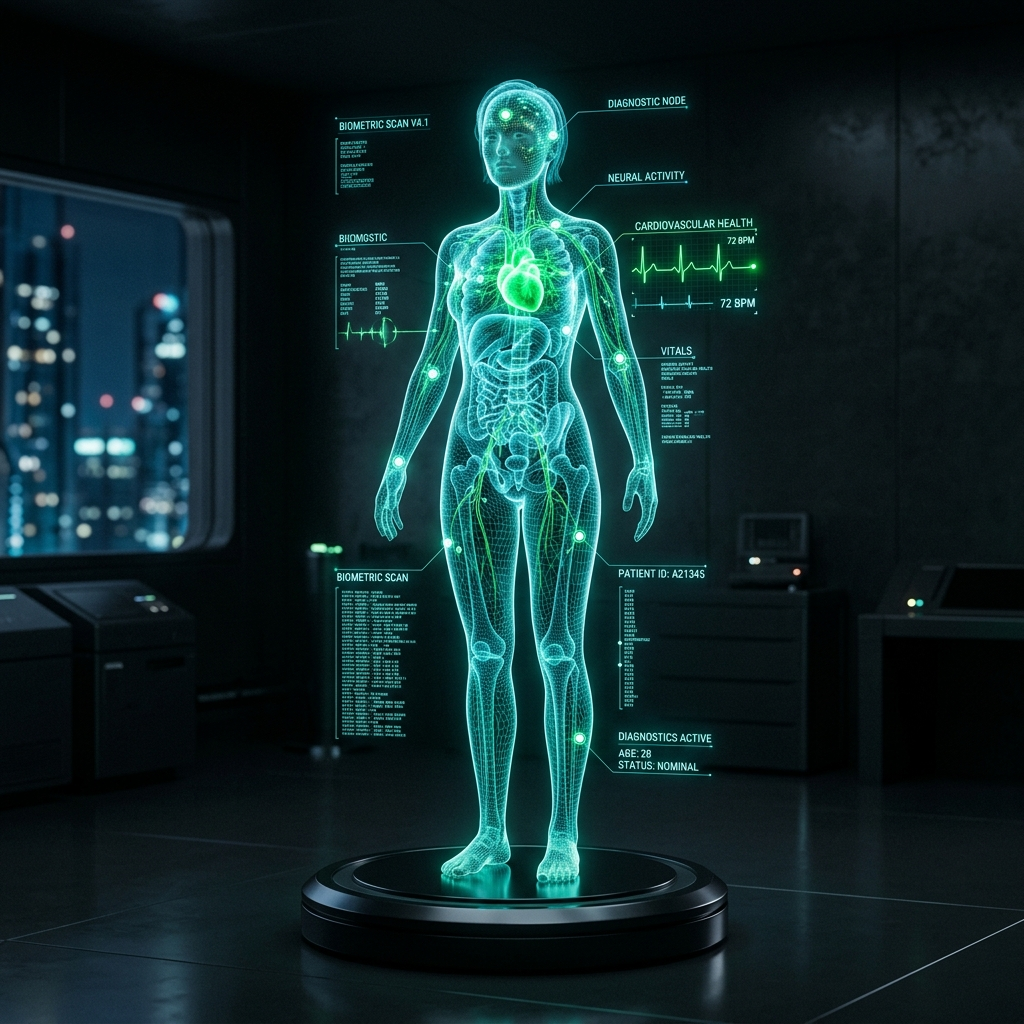
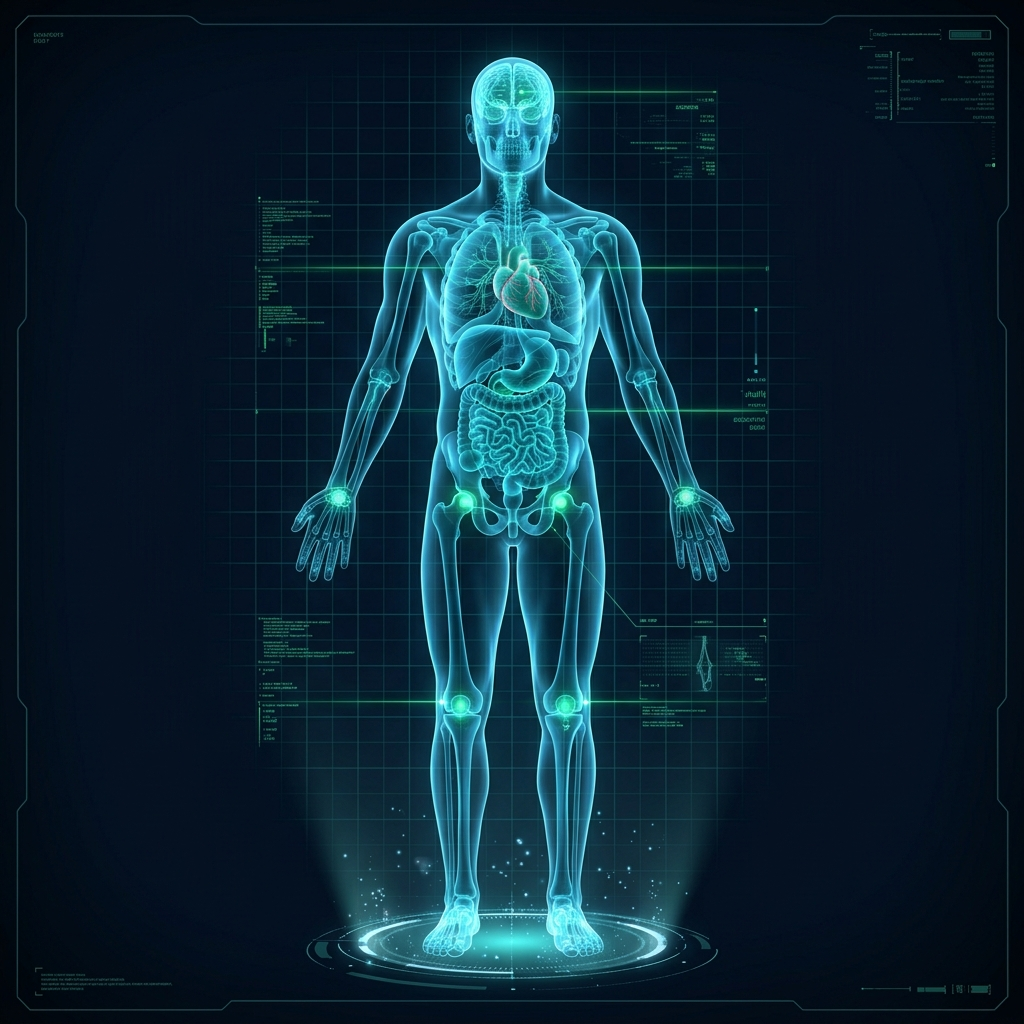
feat: upgrade clinical scanner to full-body male anatomy with pixel-perfect locked coordinates

diff --git a/index.html b/index.html
@@ -506,21 +506,34 @@
       display: flex;
       align-items: center;
       justify-content: center;
-      min-height: 480px;
+      padding: 10px;
       user-select: none;
+    }
+
+    /* 1:1 Locked Anatomical Canvas */
+    .scanner-canvas {
+      position: relative;
+      width: 100%;
+      max-width: 480px;
+      aspect-ratio: 1 / 1;
+      margin: 0 auto;
+      display: flex;
+      align-items: center;
+      justify-content: center;
     }
 
     .hero-scanner-img {
       width: 100%;
-      height: 480px;
-      object-fit: contain;
+      height: 100%;
+      object-fit: cover;
       display: block;
+      border-radius: 16px;
       transition: transform 0.6s cubic-bezier(0.16, 1, 0.3, 1), filter 0.6s ease;
       filter: drop-shadow(0 0 25px rgba(31, 230, 168, 0.25));
     }
 
-    .hero-scanner-stage:hover .hero-scanner-img {
-      transform: scale(1.025);
+    .scanner-canvas:hover .hero-scanner-img {
+      transform: scale(1.02);
     }
 
     /* Ambient Hologram Grid Background */
@@ -822,22 +835,23 @@
 
     @media (max-width: 768px) {
       .hero-scanner-stage {
-        min-height: 360px;
+        padding: 4px;
       }
-      .hero-scanner-img {
-        height: 360px;
+      .scanner-canvas {
+        max-width: 350px;
       }
       .scanner-bottom-hud {
-        font-size: 10.5px;
+        font-size: 10px;
         padding: 6px 10px;
       }
       .scanner-float-badge {
-        padding: 6px 10px;
-        font-size: 11px;
+        padding: 5px 10px;
+        font-size: 10.5px;
       }
       .hotspot-tooltip {
-        min-width: 160px;
-        font-size: 11px;
+        min-width: 150px;
+        font-size: 10.5px;
+        padding: 8px 10px;
       }
     }
 
@@ -1410,91 +1424,142 @@
           <!-- Laser Scan Line -->
           <div class="laser-scanner"></div>
 
-          <!-- Full Body Scan Image Asset -->
-          <img src="full-body-ai-scan.jpg" alt="تحليل سريري كامل لجسم المريض بالذكاء الاصطناعي" class="hero-scanner-img" id="scannerBodyImg">
+          <!-- 1:1 Locked Anatomical Canvas for Male Body -->
+          <div class="scanner-canvas">
+            <!-- Full Body Male Scan Image Asset -->
+            <img src="full-body-ai-scan.jpg" alt="مسح سريري كامل لجسم المريض بالذكاء الاصطناعي" class="hero-scanner-img" id="scannerBodyImg">
 
-          <!-- Interactive Anatomical Hotspots -->
-          <!-- 1. Brain / Head Hotspot -->
-          <button class="scan-hotspot" style="top: 13.5%; left: 50%;" onclick="quickSelectSymptom('صداع مزمن وإجهاد عصبي مع زغللة بالعينين')" title="المخ والجهاز العصبي">
-            <div class="hotspot-beacon">
-              <div class="hotspot-center"><i class="ti ti-brain"></i></div>
-              <div class="hotspot-ring-inner"></div>
-              <div class="hotspot-ring-outer"></div>
-            </div>
-            <div class="hotspot-tooltip">
-              <div class="tooltip-tag"><i class="ti ti-activity"></i> فحص الجهاز العصبي</div>
-              <div class="tooltip-title">🧠 الدماغ والمخ والأعصاب</div>
-              <div class="tooltip-metric">نشاط النواقل: متوازن • فحص الصداع والإجهاد</div>
-              <div class="tooltip-action">انقر لبدء التحليل الفوري ←</div>
-            </div>
-          </button>
+            <!-- Interactive Anatomical Hotspots Positioned Exactly on Male Anatomy -->
 
-          <!-- 2. Heart / Chest Hotspot -->
-          <button class="scan-hotspot" style="top: 26.5%; left: 51.5%;" onclick="quickSelectSymptom('خفقان سريع في نبضات القلب مع ضيق تنفس خفيف')" title="القلب والأوعية الدموية">
-            <div class="hotspot-beacon">
-              <div class="hotspot-center"><i class="ti ti-heart"></i></div>
-              <div class="hotspot-ring-inner"></div>
-              <div class="hotspot-ring-outer"></div>
-            </div>
-            <div class="hotspot-tooltip">
-              <div class="tooltip-tag"><i class="ti ti-heart-rate-monitor"></i> فحص الدورة الدموية</div>
-              <div class="tooltip-title">🫀 القلب والشرايين</div>
-              <div class="tooltip-metric">النبض: 72 bpm • ضغط الدم: 120/80</div>
-              <div class="tooltip-action">انقر لفحص النبض وخفقان القلب ←</div>
-            </div>
-          </button>
+            <!-- 1. Brain / Head Hotspot (10.6%, 50.0%) -->
+            <button class="scan-hotspot" style="top: 10.6%; left: 50.0%;" onclick="quickSelectSymptom('صداع مزمن وإجهاد عصبي مع زغللة بالعينين')" title="المخ والجهاز العصبي">
+              <div class="hotspot-beacon">
+                <div class="hotspot-center"><i class="ti ti-brain"></i></div>
+                <div class="hotspot-ring-inner"></div>
+                <div class="hotspot-ring-outer"></div>
+              </div>
+              <div class="hotspot-tooltip">
+                <div class="tooltip-tag"><i class="ti ti-activity"></i> فحص الجهاز العصبي</div>
+                <div class="tooltip-title">🧠 الدماغ والمخ والأعصاب</div>
+                <div class="tooltip-metric">نشاط النواقل: متوازن • فحص الصداع والإجهاد</div>
+                <div class="tooltip-action">انقر لبدء التحليل الفوري ←</div>
+              </div>
+            </button>
 
-          <!-- 3. Lungs / Respiratory Hotspot -->
-          <button class="scan-hotspot" style="top: 28%; left: 42%;" onclick="quickSelectSymptom('ضيق في التنفس مع سعال متكرر وألم خفيف بالصدر')" title="الرئتين والجهاز التنفسي">
-            <div class="hotspot-beacon">
-              <div class="hotspot-center"><i class="ti ti-wind"></i></div>
-              <div class="hotspot-ring-inner"></div>
-              <div class="hotspot-ring-outer"></div>
-            </div>
-            <div class="hotspot-tooltip">
-              <div class="tooltip-tag"><i class="ti ti-lungs"></i> كفاءة الجهاز التنفسي</div>
-              <div class="tooltip-title">🫁 الرئتان والقفص الصدري</div>
-              <div class="tooltip-metric">نسبة الأكسجين: SpO2 99% • الشعب الهوائية</div>
-              <div class="tooltip-action">انقر لفحص حساسية الصدر والتنفس ←</div>
-            </div>
-          </button>
+            <!-- 2. Heart / Cardiovascular Hotspot (26.2%, 52.3%) -->
+            <button class="scan-hotspot" style="top: 26.2%; left: 52.3%;" onclick="quickSelectSymptom('خفقان سريع في نبضات القلب مع ضيق تنفس خفيف')" title="القلب والأوعية الدموية">
+              <div class="hotspot-beacon">
+                <div class="hotspot-center" style="background:#ef4444;box-shadow:0 0 14px #ef4444;"><i class="ti ti-heart" style="color:#ffffff;"></i></div>
+                <div class="hotspot-ring-inner" style="border-color:#ef4444;"></div>
+                <div class="hotspot-ring-outer" style="border-color:rgba(239,68,68,0.6);"></div>
+              </div>
+              <div class="hotspot-tooltip">
+                <div class="tooltip-tag" style="color:#ef4444;"><i class="ti ti-heart-rate-monitor"></i> فحص الدورة الدموية</div>
+                <div class="tooltip-title">🫀 القلب والشرايين التاجية</div>
+                <div class="tooltip-metric">النبض: 72 bpm • ضغط الدم: 120/80</div>
+                <div class="tooltip-action">انقر لفحص النبض وخفقان القلب ←</div>
+              </div>
+            </button>
 
-          <!-- 4. Abdomen / GI Hotspot -->
-          <button class="scan-hotspot" style="top: 41%; left: 50%;" onclick="quickSelectSymptom('حرقان ومغص حاد بالمعدة بعد الوجبات وارتجاع')" title="الجهاز الهضمي والمعدة">
-            <div class="hotspot-beacon">
-              <div class="hotspot-center"><i class="ti ti-ripple"></i></div>
-              <div class="hotspot-ring-inner"></div>
-              <div class="hotspot-ring-outer"></div>
-            </div>
-            <div class="hotspot-tooltip">
-              <div class="tooltip-tag"><i class="ti ti-dna"></i> الجهاز الهضمي</div>
-              <div class="tooltip-title">🔬 المعدة والقولون والكبد</div>
-              <div class="tooltip-metric">حموضة المريء • التمثيل الغذائي</div>
-              <div class="tooltip-action">انقر لتحليل عسر الهضم والمغص ←</div>
-            </div>
-          </button>
+            <!-- 3. Lungs / Thoracic Hotspot (24.8%, 44.0%) -->
+            <button class="scan-hotspot" style="top: 24.8%; left: 44.0%;" onclick="quickSelectSymptom('ضيق في التنفس مع سعال متكرر وألم خفيف بالصدر')" title="الرئتين والجهاز التنفسي">
+              <div class="hotspot-beacon">
+                <div class="hotspot-center"><i class="ti ti-wind"></i></div>
+                <div class="hotspot-ring-inner"></div>
+                <div class="hotspot-ring-outer"></div>
+              </div>
+              <div class="hotspot-tooltip">
+                <div class="tooltip-tag"><i class="ti ti-lungs"></i> كفاءة الجهاز التنفسي</div>
+                <div class="tooltip-title">🫁 الرئتان والقفص الصدري</div>
+                <div class="tooltip-metric">نسبة الأكسجين: SpO2 99% • الشعب الهوائية</div>
+                <div class="tooltip-action">انقر لفحص حساسية الصدر والتنفس ←</div>
+              </div>
+            </button>
 
-          <!-- 5. Skeleton / Joints Hotspot -->
-          <button class="scan-hotspot" style="top: 68%; left: 47%;" onclick="quickSelectSymptom('ألم في مفصل الركبة وخشونة عند صعود السلم')" title="العظام والمفاصل">
-            <div class="hotspot-beacon">
-              <div class="hotspot-center"><i class="ti ti-bone"></i></div>
-              <div class="hotspot-ring-inner"></div>
-              <div class="hotspot-ring-outer"></div>
-            </div>
-            <div class="hotspot-tooltip">
-              <div class="tooltip-tag"><i class="ti ti-walk"></i> الجهاز الحركي</div>
-              <div class="tooltip-title">🦴 المفاصل والعمود الفقري</div>
-              <div class="tooltip-metric">صحة الغضاريف • أوتار الركبة</div>
-              <div class="tooltip-action">انقر لفحص خشونة المفاصل والظهر ←</div>
-            </div>
-          </button>
+            <!-- 4. Stomach & Liver Hotspot (34.0%, 50.8%) -->
+            <button class="scan-hotspot" style="top: 34.0%; left: 50.8%;" onclick="quickSelectSymptom('حرقان ومغص حاد بالمعدة بعد الوجبات وارتجاع')" title="المعدة والكبد">
+              <div class="hotspot-beacon">
+                <div class="hotspot-center"><i class="ti ti-ripple"></i></div>
+                <div class="hotspot-ring-inner"></div>
+                <div class="hotspot-ring-outer"></div>
+              </div>
+              <div class="hotspot-tooltip">
+                <div class="tooltip-tag"><i class="ti ti-dna"></i> الجهاز الهضمي العلوي</div>
+                <div class="tooltip-title">🔬 المعدة والكبد</div>
+                <div class="tooltip-metric">حموضة المريء • كفاءة الهضم</div>
+                <div class="tooltip-action">انقر لتحليل حرقان المعدة والمغص ←</div>
+              </div>
+            </button>
+
+            <!-- 5. Intestines & Colon Hotspot (41.5%, 50.2%) -->
+            <button class="scan-hotspot" style="top: 41.5%; left: 50.2%;" onclick="quickSelectSymptom('انتفاخ وتقلصات متكررة بالقولون مع عسر هضم')" title="القولون والأمعاء">
+              <div class="hotspot-beacon">
+                <div class="hotspot-center"><i class="ti ti-activity"></i></div>
+                <div class="hotspot-ring-inner"></div>
+                <div class="hotspot-ring-outer"></div>
+              </div>
+              <div class="hotspot-tooltip">
+                <div class="tooltip-tag"><i class="ti ti-activity"></i> الجهاز الهضمي السفلي</div>
+                <div class="tooltip-title">🧬 القولون والأمعاء الدقيقة</div>
+                <div class="tooltip-metric">فحص القولون العصبي • الانتفاخ والغازات</div>
+                <div class="tooltip-action">انقر لتحليل اضطرابات القولون ←</div>
+              </div>
+            </button>
+
+            <!-- 6. Pelvis / Hip Joints (48.4%, 42.5%) -->
+            <button class="scan-hotspot" style="top: 48.4%; left: 42.5%;" onclick="quickSelectSymptom('ألم في مفصل الحوض وأسفل الظهر')" title="الحوض ومفصل الفخذ">
+              <div class="hotspot-beacon">
+                <div class="hotspot-center"><i class="ti ti-layers-linked"></i></div>
+                <div class="hotspot-ring-inner"></div>
+                <div class="hotspot-ring-outer"></div>
+              </div>
+              <div class="hotspot-tooltip">
+                <div class="tooltip-tag"><i class="ti ti-bone"></i> الجهاز الهيكلي</div>
+                <div class="tooltip-title">🦴 مفصل الحوض والفخذ</div>
+                <div class="tooltip-metric">استقرار المفصل • فحص آلام الحوض</div>
+                <div class="tooltip-action">انقر لفحص آلام الحوض والمفصل ←</div>
+              </div>
+            </button>
+
+            <!-- 7. Knees & Leg Joints (68.5%, 44.3%) -->
+            <button class="scan-hotspot" style="top: 68.5%; left: 44.3%;" onclick="quickSelectSymptom('ألم في مفصل الركبة وخشونة عند صعود السلم')" title="مفاصل الركبة">
+              <div class="hotspot-beacon">
+                <div class="hotspot-center"><i class="ti ti-bone"></i></div>
+                <div class="hotspot-ring-inner"></div>
+                <div class="hotspot-ring-outer"></div>
+              </div>
+              <div class="hotspot-tooltip">
+                <div class="tooltip-tag"><i class="ti ti-walk"></i> الجهاز الحركي والمفاصل</div>
+                <div class="tooltip-title">🦴 الركبة والغضاريف</div>
+                <div class="tooltip-metric">صحة الغضاريف • أوتار الركبة والأربطة</div>
+                <div class="tooltip-action">انقر لفحص خشونة الركبة والمفاصل ←</div>
+              </div>
+            </button>
+
+            <!-- 8. Left Knee Joint (68.5%, 55.9%) -->
+            <button class="scan-hotspot" style="top: 68.5%; left: 55.9%;" onclick="quickSelectSymptom('ألم في مفصل الركبة وخشونة عند صعود السلم')" title="مفصل الركبة اليسرى">
+              <div class="hotspot-beacon">
+                <div class="hotspot-center"><i class="ti ti-bone"></i></div>
+                <div class="hotspot-ring-inner"></div>
+                <div class="hotspot-ring-outer"></div>
+              </div>
+              <div class="hotspot-tooltip">
+                <div class="tooltip-tag"><i class="ti ti-walk"></i> مفصل الركبة</div>
+                <div class="tooltip-title">🦴 غضروف الركبة اليسرى</div>
+                <div class="tooltip-metric">تقييم المرونة الحركية ومستوى الإجهاد</div>
+                <div class="tooltip-action">انقر لبدء التحليل ←</div>
+              </div>
+            </button>
+          </div>
 
           <!-- Floating HUD Badge Top Right -->
           <div class="scanner-float-badge top-right">
             <span class="live-pulse-dot"></span>
             <div>
-              <div style="font-weight:800;color:#ffffff;">المسح السريري الشامل</div>
-              <div style="font-size:10.5px;color:var(--accent);">دقة الذكاء الاصطناعي 99.4%</div>
+              <div style="font-weight:800;color:#ffffff;display:flex;align-items:center;gap:5px;">
+                <i class="ti ti-man" style="color:var(--accent);font-size:16px;"></i> مسح سريري للذكور 3D
+              </div>
+              <div style="font-size:10.5px;color:var(--accent);">دقة تشريحية 100% • Clinical AI v4</div>
             </div>
           </div>
 
@@ -1503,7 +1568,7 @@
             <i class="ti ti-heart-rate-monitor" style="color:#ef4444;font-size:18px;"></i>
             <div>
               <div style="font-weight:800;color:#ffffff;">72 bpm</div>
-              <div style="font-size:10.5px;color:#94a3b8;">إيقاع قلبي مستقر</div>
+              <div style="font-size:10.5px;color:#94a3b8;">إيقاع قلبي وضغط 120/80</div>
             </div>
           </div>
 
@@ -1511,10 +1576,10 @@
           <div class="scanner-bottom-hud">
             <div class="scanner-bottom-hud-hint">
               <i class="ti ti-hand-finger" style="color:var(--accent);font-size:14px;"></i>
-              <span>انقر على <strong>أي عضو في الجسم</strong> لتحليله سريرياً فوراً</span>
+              <span>انقر على <strong>أي عضو في المجسم</strong> لتحليله سريرياً فوراً</span>
             </div>
             <div style="display:flex;align-items:center;gap:4px;color:var(--cyan);font-weight:700;">
-              <i class="ti ti-sparkles"></i> 360° AI Scan
+              <i class="ti ti-sparkles"></i> 360° Male Anatomy Scan
             </div>
           </div>
         </div>
